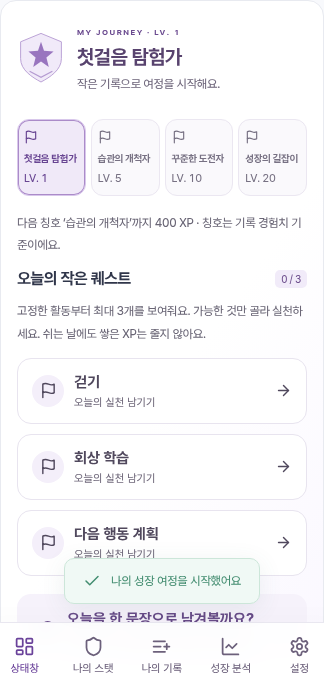
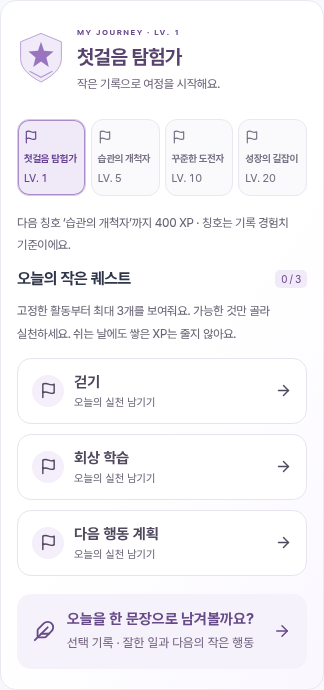
Refresh untouched reflection drafts after delayed sync and document release gates

diff --git a/tests/cloud/sync.spec.ts b/tests/cloud/sync.spec.ts
@@ -283,19 +283,27 @@ test("two devices sync, preserve offline edits and stop on conflicts", async ({
     .locator(".sidebar")
     .getByRole("button", { name: "설정", exact: true })
     .click();
+  let finishJournalRead!: () => void;
+  const journalReadStarted = new Promise<void>((resolve) => {
+    notifyHeld = resolve;
+  });
+  holdSecondRead = new Promise<void>((resolve) => {
+    finishJournalRead = resolve;
+  });
   await second
     .getByRole("button", { name: "지금 동기화", exact: true })
     .click();
-  await expect(second.locator(".sync-panel .install-status")).toHaveText(
-    "동기화 완료",
-  );
+  await journalReadStarted;
   await second
     .locator(".sidebar")
     .getByRole("button", { name: "상태창", exact: true })
     .click();
-  await second
-    .getByRole("button", { name: "오늘의 회고 돌아보기", exact: false })
-    .click();
+  await second.locator(".journal-invite").click();
+  await expect(second.getByLabel("오늘 잘한 일", { exact: true })).toHaveValue(
+    "",
+  );
+  holdSecondRead = null;
+  finishJournalRead();
   await expect(second.getByLabel("오늘 잘한 일", { exact: true })).toHaveValue(
     "두 기기에 이어지는 회고",
   );

diff --git a/app/journal.tsx b/app/journal.tsx
@@ -14,7 +14,7 @@ export function JournalEditor({
   busy: boolean;
   onSave: (journal: Journal | undefined) => Promise<boolean>;
 }) {
-  const [baseline] = useState(initial);
+  const [baseline, setBaseline] = useState(initial);
   const [win, setWin] = useState(initial?.win ?? "");
   const [story, setStory] = useState(initial?.story ?? "");
   const [next, setNext] = useState(initial?.next ?? "");
@@ -23,6 +23,16 @@ export function JournalEditor({
     win !== (baseline?.win ?? "") ||
     story !== (baseline?.story ?? "") ||
     next !== (baseline?.next ?? "");
+  useEffect(() => {
+    // A download may finish after opening. Refresh an untouched form, but never
+    // replace a draft the user has started editing.
+    if (!dirty && JSON.stringify(baseline) !== JSON.stringify(current)) {
+      setBaseline(current);
+      setWin(current?.win ?? "");
+      setStory(current?.story ?? "");
+      setNext(current?.next ?? "");
+    }
+  }, [baseline, current, dirty]);
   useEffect(() => {
     if (!dirty) return;
     const handler = (e: BeforeUnloadEvent) => {

diff --git a/app/globals.css b/app/globals.css
@@ -4163,3 +4163,9 @@ textarea {
     padding: 14px;
   }
 }
+.journey-panel p,
+.journal-invite,
+.service-notice p {
+  word-break: keep-all;
+  overflow-wrap: anywhere;
+}

diff --git a/docs/PRODUCT-REVIEW-2026-10-13.md b/docs/PRODUCT-REVIEW-2026-10-13.md
@@ -14,6 +14,7 @@
 - 이메일 소유 확인 및 실제 메일 수신을 포함하는 비밀번호 복구: 현재 프로젝트는 이전 검사에서 이메일 자동 확인 상태. 공개 키로 관리자 설정을 바꿀 수 없다. SMTP·Site URL·Redirect URL 설정 후 실메일 테스트가 필요하다.
 - 계정 탈퇴: 현재 앱 기록 초기화는 Auth 계정 삭제가 아니다. 서버에서 요청자 JWT를 확인하는 탈퇴 엔드포인트와 개인정보 보유/백업 삭제 정책, 실제 탈퇴 검증 필요. 관리자 키를 브라우저에 넣어 구현해서는 안 된다.
 - 운영 주체·연락처·보유 기간·국외 처리 등을 확정한 개인정보 처리방침. 앱의 저장 방식 안내는 정식 방침을 대체하지 않는다.
+- 현재 SQL은 authenticated에 자기 행의 insert/update도 허용한다. RLS는 계정을 분리하지만 직접 테이블 쓰기는 RPC의 버전·크기 검사를 우회할 수 있다. 정식 공개 전에는 자기 행만 처리하는 권한 제한 저장 함수와 테이블 쓰기 권한을 함께 정비하고 실제 DB에서 재검증해야 한다. 공개 키로 이 권한 설정을 변경할 수 없다.
 - CAPTCHA/가입 남용 제어, 장애 알림, DB 백업 복원 연습, 사용량/비용 경보. 공유 Supabase 프로젝트의 다른 앱까지 검토해야 한다.
 - 격리된 부하 테스트 및 안드로이드 실기기/아이폰 Safari 접근성 테스트. 현재 단일 JSON 문서 CAS 동기화는 소규모에 적합하며 수년치/대용량 사진에는 분리 저장이 필요할 수 있다.
 - 5~10명 사용성 테스트로 첫 기록 성공률, 데이터 복구 성공, 1주 재사용 의향을 확인. 실제 사용자 분석/추적은 이번에 추가하지 않는다.
@@ -28,3 +29,4 @@
 - 단위 테스트 25개, 기존 브라우저 19개와 새 회고/레벨업 흐름 통과. 모의 Supabase 두 기기 테스트에서 오프라인/충돌/회고 전달/비밀번호 변경 통과. npm audit 운영 의존성 알려진 취약점 0개.
 - 저장된 textarea의 내용이 라벨 조회에 섞이던 문제를 명시적인 접근성 이름으로 수정했다. 실메일 복구·Auth 계정 삭제·운영 설정은 검증 완료로 표시하지 않는다.
 - 추가 회고 동시 편집/360px 작성 검증을 포함하여 브라우저 시나리오 총 23개를 검증했다. 정적 export의 경로/폰트/기록/회고/오프라인 재접속 검사 1개도 통과했다. 이 검사는 GitHub 배포 워크플로에 추가하여 실패 시 배포를 차단한다.
+- 실제 사이트 점검에서 동기화 응답보다 회고 창을 먼저 열면 빈 초안이 유지되는 경우를 발견했다. 아직 수정하지 않은 입력창에는 늦게 도착한 회고를 반영하고, 이미 입력한 초안은 그대로 보호하도록 수정했다. 모의 서버 응답을 지연시킨 회귀 테스트로 확인했다.

diff --git a/docs/research/PRODUCT-PATTERNS.md b/docs/research/PRODUCT-PATTERNS.md
@@ -8,6 +8,8 @@
 | [Loop Habit Tracker 공식 README](https://github.com/iSoron/uhabits) | 경량 UI, 장기 그래프, 유연한 일정, 며칠 빠져도 진전이 전부 사라지지 않는 점수, 오프라인/내보내기 | 휴식에 페널티 없음, 이미 쌓은 XP 유지, 백업과 선택 기록 유지 |
 | [Anki 공식 README](https://github.com/ankitects/anki) | 간격 반복 학습 프로그램 | 작은 실천의 반복을 중심에 둠. 학습 효과를 모든 활동/게임 XP에 일반화하지 않음 |
 
+| [Joplin 공식 README](https://github.com/laurent22/joplin) | 오프라인 우선 메모, 가져오기, 여러 클라우드와 종단간 암호화 동기화 | 회고도 오프라인·백업·동기화의 동일한 데이터로 취급. 우리 앱에는 종단간 암호화가 없음을 명시 |
+
 Habitica 기능 사이트, Finch, Day One, Duolingo 블로그는 현재 프록시 403으로 본문 열람에 실패했다. 이들의 최신 화면·기능·성과를 확인했다고 주장하지 않는다. 조사 범위를 확장하려면 habitica.com, finchcare.com, dayoneapp.com, blog.duolingo.com 접근이 필요하다.
 
 하루 회고는 사용자 요청을 바탕으로 한 제품 가설이다. 세 문항을 선택 작성하고 점수/연속 기록 의무를 붙이지 않는다. 이후 사용자 테스트에서 작성 부담과 재방문 가치를 확인한다. 치료·건강 개선 효과를 주장하지 않는다.
